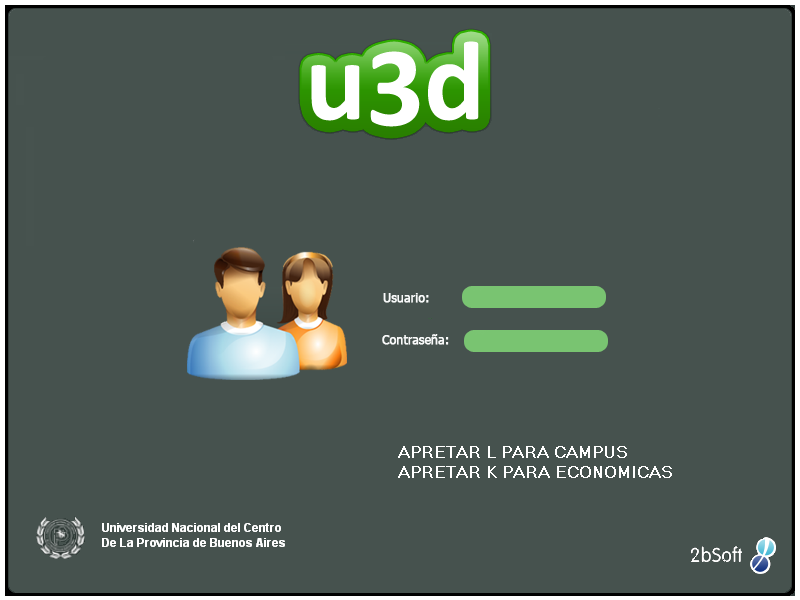
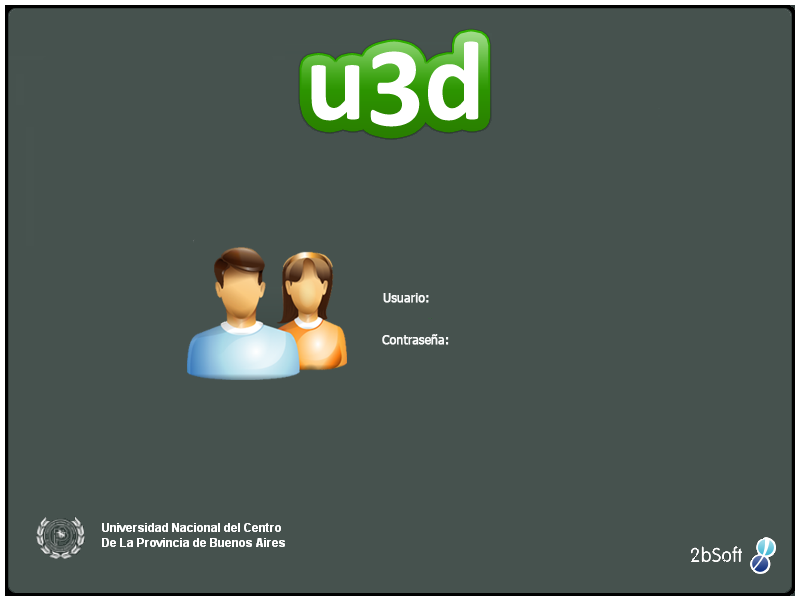
arreglitos varios y pregunta via hud antes de cambiar de estado en los acces point. Falta el cartel de "cargando", pero ya es muy tarde

Changed region(s): [[0.5625, 0.45, 0.7812, 0.6], [0.5, 0.75, 0.8438, 0.81]]

diff --git a/src/client/game/state/AccessPoint.java b/src/client/game/state/AccessPoint.java
@@ -5,56 +5,48 @@
  */
 package client.game.state;
 
-import java.io.IOException;
+import java.util.HashMap;
 
-import client.game.entity.Entity;
-import client.game.task.ChangeStateTask;
-import client.game.task.Task;
 import client.game.task.U3dChangeToExterior;
 import client.game.task.U3dChangeToIntEco;
+import client.manager.HudManager;
 import client.manager.TaskManager;
 
-import com.jmex.game.state.BasicGameState;
-import com.jmex.game.state.GameStateManager;
 import com.jme.scene.Node;
-import com.jme.scene.Spatial;
-import com.jme.util.export.InputCapsule;
-import com.jme.util.export.JMEExporter;
-import com.jme.util.export.JMEImporter;
-import com.jme.util.export.OutputCapsule;
-import com.sun.corba.se.spi.orbutil.fsm.State;
+import com.jmex.bui.event.ActionEvent;
+import com.jmex.bui.event.ActionListener;
+import com.jmex.game.state.BasicGameState;
 
-/** 
+/**
  * @author Santiago Michielotto
  * @version Created: 19-11-2008
  * @version Modified: 06-02-2009
  */
 public class AccessPoint implements IAccessPoint {
-	
+
 	/**
 	 * Nodo al que esta asociado el AccessPoint
 	 */
 	private Node nodo;
-	
+
 	/**
 	 * Proximo Estado
 	 */
 	private String nextState;
-	
-	/** 
+
+	/**
 	 * Constructor de AccessPoint.
 	 */
 	public AccessPoint(Node N, BasicGameState next) {
-		nodo=N;
-		proxEstado=next;
+		nodo = N;
+		proxEstado = next;
 	}
-	
-	public Node getNodo()
-	{
+
+	public Node getNodo() {
 		return nodo;
 	}
 
-	/** 
+	/**
 	 * Poximo estado del juego.
 	 */
 	private BasicGameState proxEstado;
@@ -63,45 +55,71 @@ public class AccessPoint implements IAccessPoint {
 		return this.proxEstado;
 	}
 
-	/** 
+	/**
 	 * Aplica un <code>BasicGameState</code> al <code>AccessPoint</code>.
-	 * @param theBasicgamestate <code>BasicGameState</code> a aplicar.
+	 * 
+	 * @param theBasicgamestate
+	 *            <code>BasicGameState</code> a aplicar.
 	 */
 	public void setBasicgamestate(BasicGameState state) {
-		proxEstado=state;
+		proxEstado = state;
 	}
 
-	/** 
+	/**
 	 * Retorna la clase de java de dicho <code>AccessPoint</code>.
+	 * 
 	 * @return la clase de java del <code>AccessPoint</code>.
 	 */
 	public Class getClassTag() {
 		return this.getClass();
 	}
 
-	/** 
-	 * This method create a new <code>ChangeStateTask</code>, and this is enqueue first in the list of  task
-	 * to execute calling a singleton <code>TaskManager</code>
+	/**
+	 * This method create a new <code>ChangeStateTask</code>, and this is
+	 * enqueue first in the list of task to execute calling a singleton
+	 * <code>TaskManager</code>
 	 */
-	public void show() 
-	{
-		//if (!GameStateManager.getInstance().getChild("Eco").isActive())
-		if(!proxEstado.isActive())
-		{
-			if (proxEstado.getClass().equals(U3dIntEcoState.class))
-				{
-					U3dChangeToIntEco task =(U3dChangeToIntEco) TaskManager.getInstance().createTask("4");
-					task.initTask();
-					TaskManager.getInstance().enqueue(task);
-				}
-			else
-				if (proxEstado.getClass().equals(U3dExteriorState.class))
-				{	
-					U3dChangeToExterior task =(U3dChangeToExterior) TaskManager.getInstance().createTask("3");
-					task.initTask();
-					TaskManager.getInstance().enqueue(task);
-				}
+	public void show() {
+		// if (!GameStateManager.getInstance().getChild("Eco").isActive())
+		if (!proxEstado.isActive()) {
+			if (proxEstado.getClass().equals(U3dIntEcoState.class)) {
+				U3dChangeToIntEco task = (U3dChangeToIntEco) TaskManager
+						.getInstance().createTask("4");
+				task.initTask();
+				TaskManager.getInstance().enqueue(task);
+			} else if (proxEstado.getClass().equals(U3dExteriorState.class)) {
+				U3dChangeToExterior task = (U3dChangeToExterior) TaskManager
+						.getInstance().createTask("3");
+				task.initTask();
+				TaskManager.getInstance().enqueue(task);
+			}
 		}
-		
+
+	}
+
+	public void dialogoIngresar() {
+		// if (!GameStateManager.getInstance().getChild("Eco").isActive())
+		if (!proxEstado.isActive()) {
+			String textoEdificio = "";
+			if (proxEstado.getClass().equals(U3dIntEcoState.class)) {
+				textoEdificio = "Estas frente a la puerta de ingreso Economicas. ¿Queres Entrar?";
+			} else if (proxEstado.getClass().equals(U3dExteriorState.class)) {
+				textoEdificio = "Estas frente a la puerta que sale al campus. ¿Queres Salir?";
+
+			}
+			HashMap<String, String> botones = new HashMap<String, String>();
+			botones.put("abrirPuerta", "Abrir Puerta");
+			botones.put("noAbrir", "No Abrir Puerta");
+			HudManager.getInstance().update();
+			HudManager.getInstance().muestraDialogo(textoEdificio, botones,
+					new ActionListener() {
+						public void actionPerformed(ActionEvent event) {
+							if (event.getAction().equals("abrirPuerta")) {
+								show();
+							}
+						}
+					});
+
+		}
 	}
 }

diff --git a/src/client/game/state/U3dLoginState.java b/src/client/game/state/U3dLoginState.java
@@ -17,6 +17,7 @@ import client.manager.TaskManager;
 import com.jme.image.Texture;
 import com.jme.input.KeyBindingManager;
 import com.jme.input.KeyInput;
+import com.jme.input.MouseInput;
 import com.jme.math.Vector3f;
 import com.jme.renderer.Renderer;
 import com.jme.scene.Spatial;
@@ -45,11 +46,7 @@ public class U3dLoginState extends U3dState {
 	// initialize texture height
 	private int textureHeight;
 
-	private BWindow login;
 
-	private BTextField userNameField;
-
-	private BComponent passwordField;
 	private boolean loguear;
 	private boolean espera;
 
@@ -71,19 +68,6 @@ public class U3dLoginState extends U3dState {
 
 	@Override
 	public void update(float arg0) {
-		if (KeyBindingManager.getKeyBindingManager().isValidCommand("campus")) {
-			U3dChangeToExterior task = (U3dChangeToExterior) TaskManager
-					.getInstance().createTask("3");
-			task.initTask();
-			TaskManager.getInstance().enqueue(task);
-		}
-		if (KeyBindingManager.getKeyBindingManager().isValidCommand(
-				"economicas")) {
-			U3dChangeToIntEco task = (U3dChangeToIntEco) TaskManager
-					.getInstance().createTask("4");
-			task.initTask();
-			TaskManager.getInstance().enqueue(task);
-		}
 		HudManager.getInstance().getRoot()// solo necesito actualizar los
 				// nodos del hud
 				.updateGeometricState(0.0f, true);
@@ -94,6 +78,8 @@ public class U3dLoginState extends U3dState {
 
 			task.initTask();
 			TaskManager.getInstance().enqueue(task);
+			HudManager.getInstance().unSetCargando();
+			HudManager.getInstance().removeWindow("login");
 		}
 		if (loguear) // cosa medio fea para que muestre el cartel de cargando,
 						// sino empieza a cargar el campus y no actualiza
@@ -112,11 +98,7 @@ public class U3dLoginState extends U3dState {
 
 		TaskManagerFactory.getInstance().add(
 				new U3DChangeToExteriorTaskFactory());
-		KeyBindingManager.getKeyBindingManager().set("campus", KeyInput.KEY_L);
-		TaskManagerFactory.getInstance()
-				.add(new U3DChangeToIntEcoTaskFactory());
-		KeyBindingManager.getKeyBindingManager().set("economicas",
-				KeyInput.KEY_K);
+
 		inicializaHUD();
 
 		Quad imagenFondo = new Quad("fondo", DisplaySystem.getDisplaySystem()
@@ -194,14 +176,17 @@ public class U3dLoginState extends U3dState {
 			System.out.println("loguear");
 			HudManager.getInstance().setCargando();
 			HudManager.getInstance().update();
-
+			MouseInput.get().setCursorVisible(false);
 			loguear = true;
 
 		} 
 	}
 
 	private void inicializaHUD() {
+		BWindow login;
+		BTextField userNameField;
 
+		BComponent passwordField;
 		// instantiate our login window
 		// set our style from our BuiSystem and set our layout to stretch
 		// everything vertically
@@ -249,7 +234,7 @@ public class U3dLoginState extends U3dState {
 		login.add(loginButton, loginButton.getBounds());
 
 		// add our login window to our BRootNode
-		HudManager.getInstance().getRoot().addWindow(login);
+		HudManager.getInstance().addWindow(login,"login");
 
 		// center our window -- this could go anywhere in the code I simply
 		// place it after my addWindow so I remember that I did it

diff --git a/src/client/manager/HudManager.java b/src/client/manager/HudManager.java
@@ -2,8 +2,11 @@ package client.manager;
 
 import java.util.HashMap;
 import java.util.Iterator;
+import java.util.List;
 
+import com.jme.input.InputHandler;
 import com.jme.input.MouseInput;
+import com.jme.input.MouseInputListener;
 import com.jme.renderer.ColorRGBA;
 import com.jme.util.Timer;
 import com.jmex.bui.BButton;
@@ -37,12 +40,11 @@ public class HudManager implements IHudManager {
 	}
 
 	public void initialize(Timer timer) {
-
 		BuiSystem.init(new PolledRootNode(timer), "/HUD/style2.bss");
 		_root = (PolledRootNode) BuiSystem.getRootNode();
-		MouseInput.get().setCursorVisible(true);
 		ventanas = new HashMap<String, BWindow>();
 		style = BuiSystem.getStyle();
+		MouseInput.get().setCursorVisible(true);
 	}
 
 	@Override
@@ -113,14 +115,14 @@ public class HudManager implements IHudManager {
 		ventanas.put(id, ventTexto);
 
 	}
-	
+
 	public void muestraDialogo(String texto, HashMap<String, String> botones,
 			ComponentListener listener) {
+		MouseInput.get().setCursorVisible(true);
+		final BWindow ventDialogo = new BWindow(style, GroupLayout
+				.makeVStretch());
 
-		final BWindow ventDialogo = new BWindow(style,
-				GroupLayout.makeVStretch());
-
-		ventDialogo.setSize(250, 70+(50*botones.size()));
+		ventDialogo.setSize(270, 150 + (50 * botones.size()));
 		BLabel label = new BLabel(texto);
 		ventDialogo.add(label);
 		ventDialogo.setBackground(0, new TintedBackground(ColorRGBA.darkGray));
@@ -131,7 +133,7 @@ public class HudManager implements IHudManager {
 			ventDialogo.add(button);
 			button.addListener(new ActionListener() {
 				public void actionPerformed(ActionEvent event) {
-					
+					MouseInput.get().setCursorVisible(false);
 					ventDialogo.dispatchEvent(event);
 					ventDialogo.getRootNode().removeWindow(ventDialogo);
 				}
@@ -141,7 +143,19 @@ public class HudManager implements IHudManager {
 		ventDialogo.addListener(listener);
 		ventDialogo.center();
 
-		_root.addWindow(ventDialogo); // a esta ventana no preciso agregarla ya que se saca sola al cerrarse el dialogo
+		_root.addWindow(ventDialogo); // a esta ventana no preciso agregarla
+										// ya que se saca sola al cerrarse el
+										// dialogo
 
-	}	
+	}
+
+	public void addWindow(BWindow wind, String id) {
+		ventanas.put(id, wind);
+		_root.addWindow(wind);
+	}
+
+	public void removeWindow(String id) {
+		_root.removeWindow(ventanas.get(id));
+	}
+
 }

diff --git a/src/client/game/state/U3dExteriorState.java b/src/client/game/state/U3dExteriorState.java
@@ -58,7 +58,6 @@ public class U3dExteriorState extends U3dState {
 			 */
 
 			this.initialized = true;
-//HudManager.getInstance().update();
 			rootNode.updateGeometricState(0.0f, true);
 			rootNode.updateRenderState();
 		}
@@ -125,7 +124,10 @@ public class U3dExteriorState extends U3dState {
         Skybox sb=(Skybox) this.getRootNode().getChild("cielo");
 		sb.getLocalTranslation().set(chaser.getCamera().getLocation().x, chaser.getCamera().getLocation().y,
         		chaser.getCamera().getLocation().z);
-		
+		HudManager.getInstance().getRoot()// solo necesito actualizar los
+		// nodos del hud
+		.updateGeometricState(0.0f, true);
+HudManager.getInstance().getRoot().updateRenderState();
 		/* Ya no va mas con los AccessPoints
 		 * if(KeyBindingManager.getKeyBindingManager().isValidCommand("change", false)){
 			U3dChangeToIntEco task =(U3dChangeToIntEco) TaskManager.getInstance().createTask("4");
@@ -155,4 +157,5 @@ public class U3dExteriorState extends U3dState {
 		intersects = chaser.verifyIntersection(world, direction);
 //		System.out.println(intersects);
 	}
+
 }

diff --git a/src/client/game/state/U3dIntEcoState.java b/src/client/game/state/U3dIntEcoState.java
@@ -128,7 +128,11 @@ public class U3dIntEcoState extends U3dState {
         Skybox sb=(Skybox) this.getRootNode().getChild("cielo");
 		sb.getLocalTranslation().set(chaser.getCamera().getLocation().x, chaser.getCamera().getLocation().y,
         		chaser.getCamera().getLocation().z);
-		
+		HudManager.getInstance().getRoot()// solo necesito actualizar los
+		// nodos del hud
+		.updateGeometricState(0.0f, true);
+HudManager.getInstance().getRoot().updateRenderState();
+
 		/*Ya no va mas con los AccessPoints
 		  if(KeyBindingManager.getKeyBindingManager().isValidCommand("change", false)){
 		 

diff --git a/src/client/manager/CollisionManager.java b/src/client/manager/CollisionManager.java
@@ -92,7 +92,7 @@ public class CollisionManager {
 			{
 			if (temp.getNodo().equals(abuelo))
 				{cond=true;
-				temp.show();
+				temp.dialogoIngresar();
 				}
 			else
 				abuelo=abuelo.getParent();
